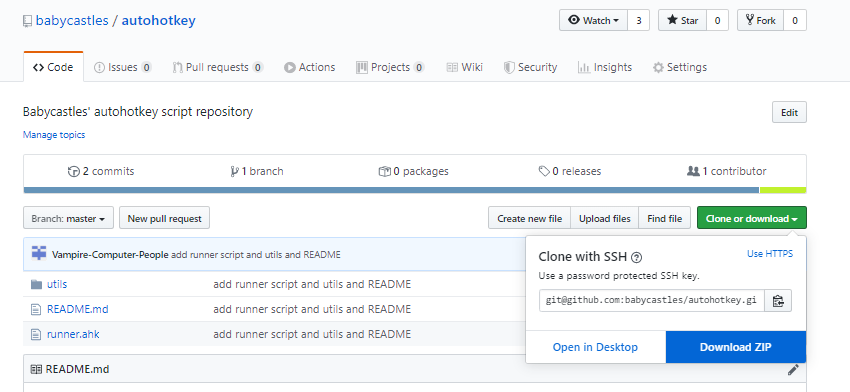
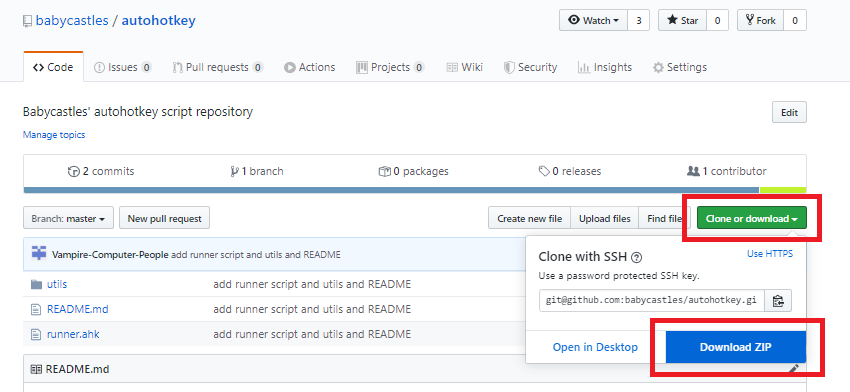
update screenshot and readme

Changed region(s): [[0.7953, 0.4898, 0.9788, 0.6429], [0.7647, 0.7959, 0.9788, 0.9796]]

diff --git a/README.md b/README.md
@@ -16,9 +16,15 @@ By adding an AutoHotkey script to the Windows Startup folder, the AutoHotkey scr
 ![download_screenshot](/screenshots/download.png?raw=true)
 
 0. Click **Clone or download** on this repo and choose **Download ZIP**
-0. Unzip the contents into the game folder
+0. Unzip the contents by right-clicking the downloaded zip and selecting **Extract All...**
+0. Move the contents of the folder into the folder of your game
 0. Modify runner.ahk to fit your particular needs
-0. Make a shortcut to runner.ahk in the startup folder
+0. Press the Windows logo key  **+ R**, type `shell:startup`, then select OK. The startup folder opens.
+0. Create a shortcut to **runner.ahk** in the startup folder
+	0. Right-click and hold **runner.ahk**
+	0. While still holding the right-click, drag the file into the startup folder
+	0. Release the right-click and select **Create shortcuts here**
+
 
 ### TODOS
 
